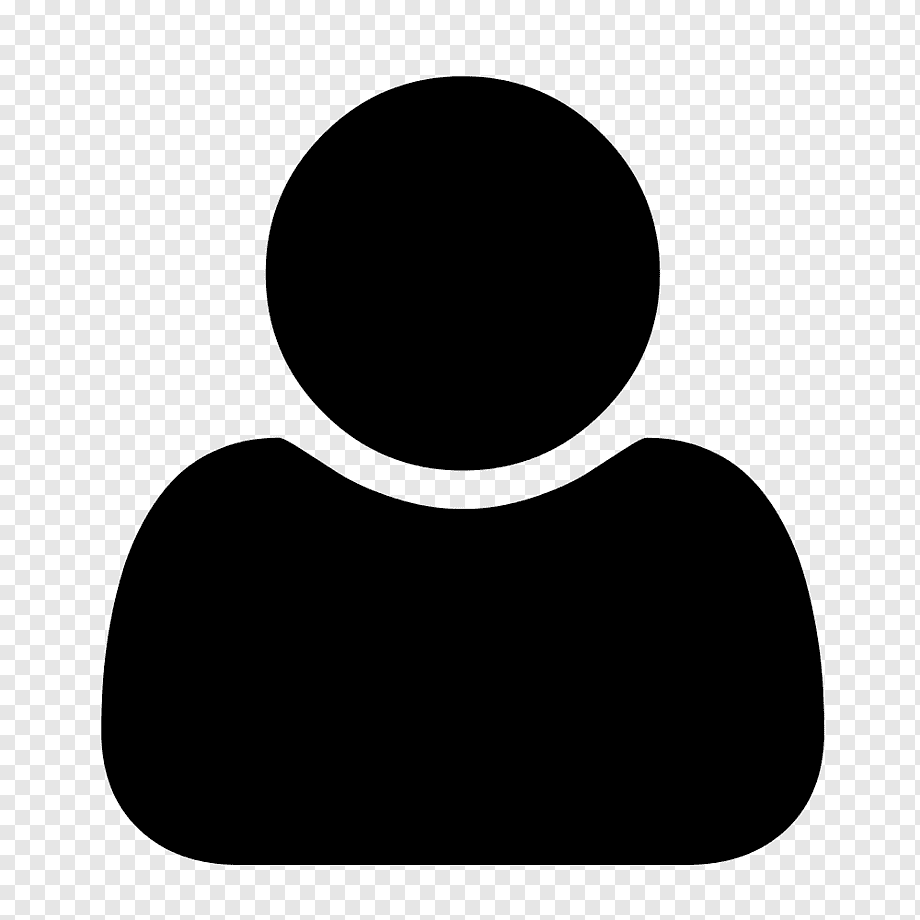
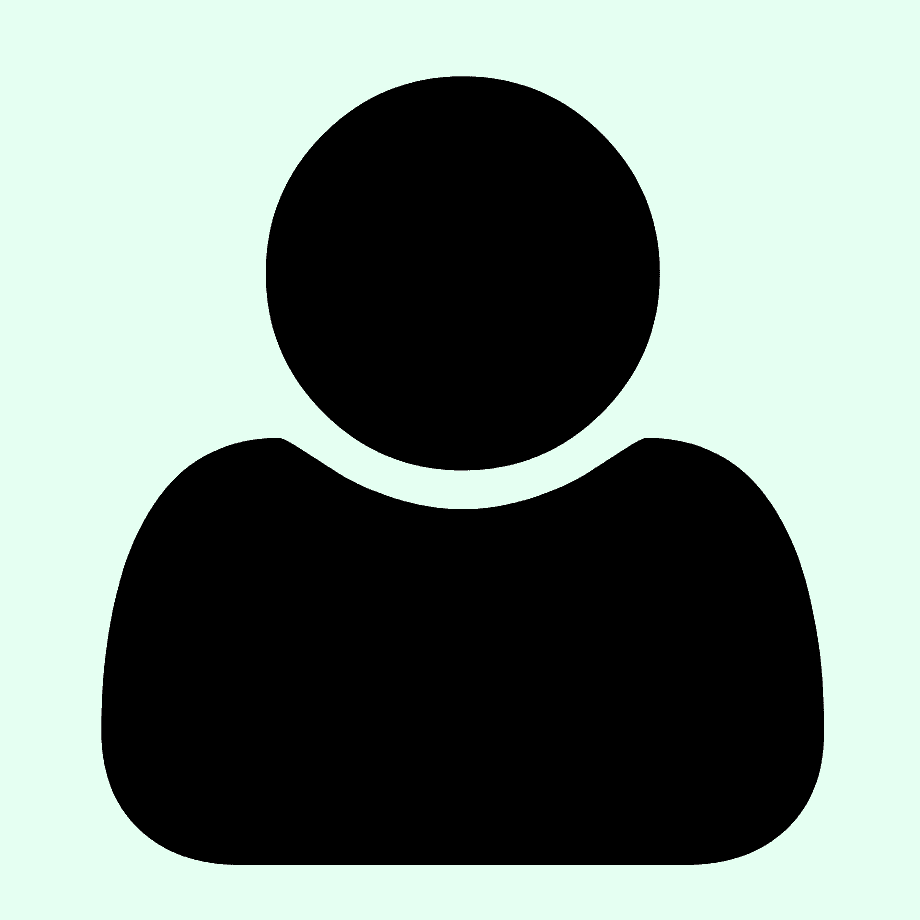
nearly end profile navbar at base4

diff --git a/movies/templates/registration/user_profile_page.html b/movies/templates/registration/user_profile_page.html
@@ -13,49 +13,27 @@
 <div class="card mb-3">
   <div class="row g-0">
     <div class="col-md-2">
-{% if page_user.profile_pic %}
-    <img src="{{ page_user.profile_pic.url }}"
-           class="img-fluid rounded-start" >
-
-{% else %}
-           class="img-fluid rounded-start" >
-{% endif %}
+       {% if page_user.profile_pic %} <!-- БЛОК НА ПУСТУЮ КАРТИНКУ ПРОФАЙЛА -->
+           <img src="{{ page_user.profile_pic.url }}" class="img-fluid rounded-start">
+       {% else %}
+           <img src="../../static/images/profile_page.png" alt="profile-image" class="img-fluid rounded-start">
+       {% endif %}
     </div>
+
+
+
     <div class="col-md-10">
       <div class="card-body">
         <h5 class="card-title">
-            {{ page_user.user.first_name }}
-            {{ page_user.user.last_name }}
-        </h5>
-          <p class="small text-muted">
-
-
-          {% if page_user.website_url %}
-             <a href="{{
-              page_user.website_url ">Website</a>
-          {% endif %}
-
-          {% if  page_user.facebook_url %}
-              | <a href="{{  page_user.facebook_url ">Facebook</a>
-          {% endif %}
-
-          {% if  page_user.twitter_url %}
-              | <a href="{{  page_user.twitter_url ">Twitter</a>
-          {% endif %}
-
-          {% if page_user.instagram_url %}
-              | <a href="{{  page_user.instagram_url ">Instagram</a>
-          {% endif %}
-
-          {% if  page_user.pinterest_url %}
-              | <a href="{{  page_user.pinterest_url ">Pinterest</a>
-          {% endif %}
-
-          </p>
+          <p>Имя пользователя: {{ user.profile.user }}</p> 
+          <p>Email: {{ user.profile.email }}</p>
+          <p>Имя: {{ user.profile.first_name }}</p>
+          <p>Фамилия: {{ user.profile.last_name }}</p>
+        
         <p class="card-text">
-            {{  page_user.bio }}
-
+            <h5>О себе: </h5> {{ user.profile.bio }}
         </p>
+      
       </div>
     </div>
   </div>
